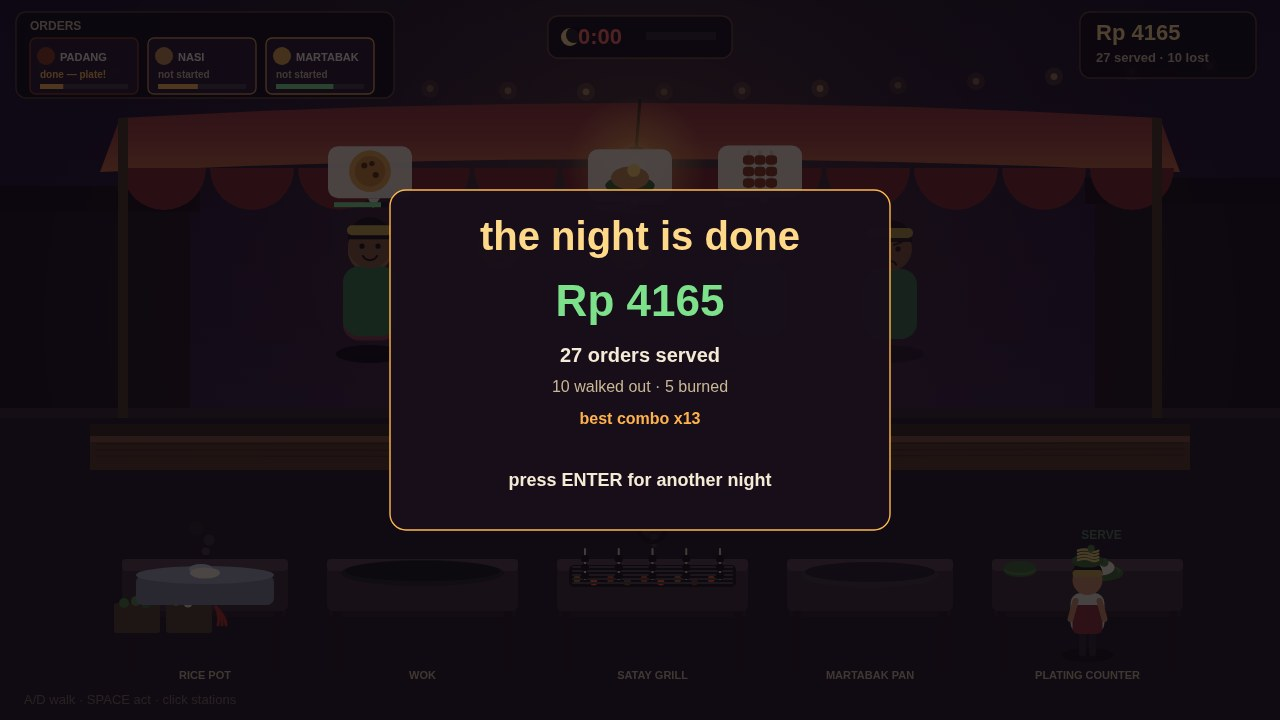
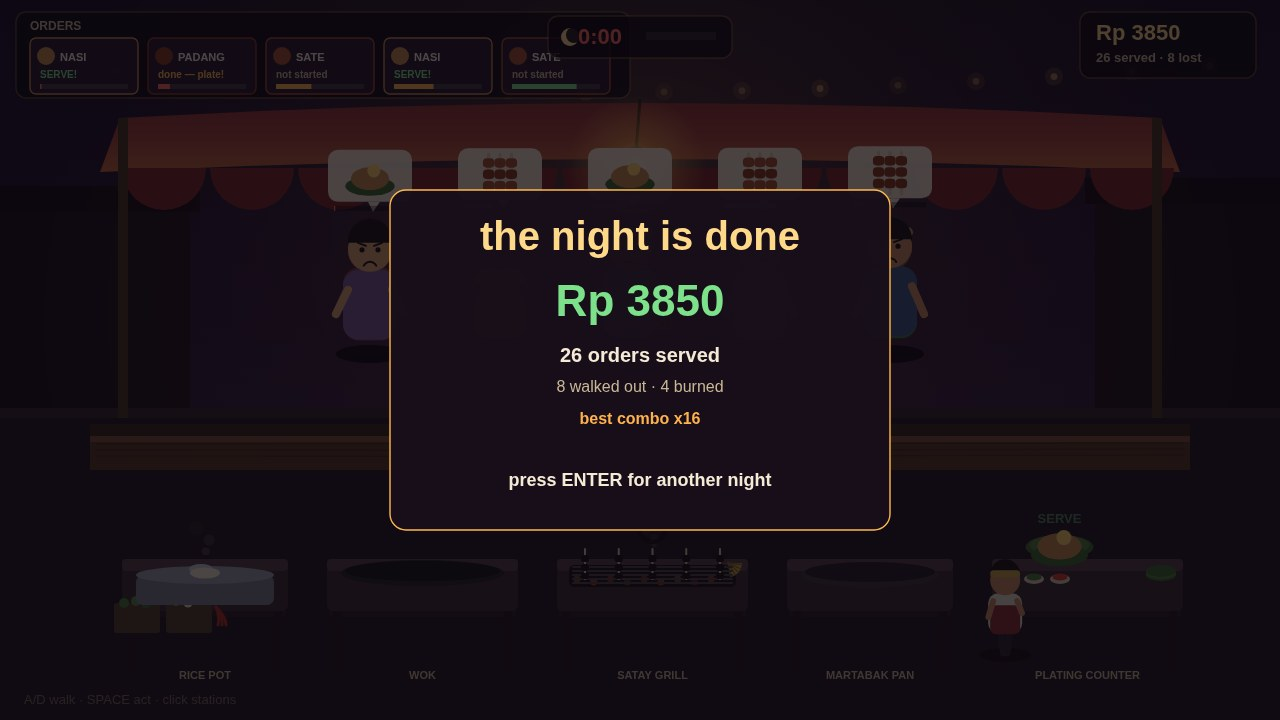
Enrich plating counter, tune balance, stir experiment reverted (chore hurt the fun)

diff --git a/game/src/render.js b/game/src/render.js
@@ -589,43 +589,66 @@ export function createRenderer(canvas) {
   }
 
   function drawPlating(world, x, y, w) {
-    // stacked banana-leaf plates
-    ellipse(x + 20, y + 26, 16, 6, '#3f6a2f');
-    ellipse(x + 20, y + 24, 16, 6, '#4f8240');
-    ellipse(x + 20, y + 22, 16, 6, '#3f6a2f');
+    // the mise en place, always out: little bowls of the garnishes every dish finishes with —
+    // fried egg, greens, sambal — the ingredients on the counter the game is built around
+    const bowls = [
+      { color: GARNISH.egg.color, label: 'egg', dx: 8 },
+      { color: GARNISH.leaf.color, label: 'greens', dx: 34 },
+      { color: GARNISH.chili.color, label: 'sambal', dx: 60 },
+    ];
+    for (const b of bowls) {
+      ellipse(x + b.dx, y + 34, 10, 5, '#d9cdb4');
+      ellipse(x + b.dx, y + 32, 7.5, 3.6, b.color);
+    }
+    // stacked banana-leaf plates at the counter's end
+    ellipse(x + w - 14, y + 30, 15, 6, '#3f6a2f');
+    ellipse(x + w - 14, y + 28, 15, 6, '#4f8240');
+    ellipse(x + w - 14, y + 26, 15, 6, '#3f6a2f');
 
-    // the plate mid-assembly: mound first, garnish after, as plating progresses
+    // the plate mid-assembly, big and central: leaf plate, the mound lowering in, garnish after
+    const midX = x + w / 2 - 30;
     if (world.plating) {
-      const px = x + w / 2 + 14;
-      ellipse(px, y + 28, 22, 8, '#3f6a2f');
-      ellipse(px, y + 26, 19, 6.5, '#4f8240');
       const dish = DISHES[world.plating.dishKey];
-      const appear = Math.min(1, world.plating.progress * 1.6);
+      const prog = world.plating.progress;
+      // leaf plate
+      ellipse(midX, y + 2, 34, 12, '#3f6a2f');
+      ellipse(midX, y, 30, 10, '#4f8240');
+      // the food settling onto the leaf as plating progresses — slides in from above
+      const drop = (1 - Math.min(1, prog * 1.8)) * 26;
       ctx.save();
-      ctx.globalAlpha = appear;
-      ellipse(px, y + 22, 13, 6, dish.color);
+      ctx.globalAlpha = Math.min(1, prog * 2);
+      if (world.plating.dishKey === 'satay' || world.plating.dishKey === 'satayPadang') {
+        drawDishIcon(world.plating.dishKey, midX, y + 2 - drop, 1.7);
+      } else {
+        ellipse(midX, y - 3 - drop, 23, 9.5, dish.color);
+        // grain texture
+        ctx.fillStyle = shade(dish.color, 18);
+        circle(midX - 8, y - 4 - drop, 2.5, ctx.fillStyle);
+        circle(midX + 6, y - 2 - drop, 2.5, ctx.fillStyle);
+        circle(midX + 12, y - 4 - drop, 2.2, ctx.fillStyle);
+      }
+      // the garnish lands last
       const gar = GARNISH[dish.garnish];
-      if (world.plating.progress > 0.45) circle(px + 4, y + 19, 4, gar.color);
+      if (prog > 0.55) circle(midX + 8, y - 6 - drop, 6, gar.color);
       ctx.restore();
-      // progress ring while plating
+      // plating progress ring
       ctx.strokeStyle = COLOR.lampGlow;
-      ctx.lineWidth = 3;
+      ctx.lineWidth = 3.5;
       ctx.beginPath();
-      ctx.arc(px, y - 8, 9, -Math.PI / 2, -Math.PI / 2 + Math.PI * 2 * world.plating.progress);
+      ctx.arc(midX, y - 22, 11, -Math.PI / 2, -Math.PI / 2 + Math.PI * 2 * prog);
       ctx.stroke();
     }
 
-    // finished plates waiting to be served — the thing the judge looks for
+    // finished plates waiting to be served — the plate ready to serve the judge looks for
     world.plated.forEach((p, i) => {
-      const px = x + w / 2 + 14 + i * 40 - (world.plating ? 20 : 0);
-      const py = y + 28 - i * 2;
-      ellipse(px, py, 22, 8, '#3f6a2f');
-      ellipse(px, py - 2, 19, 6.5, '#4f8240');
-      drawDishIcon(p.dishKey, px, py - 8, 1.3);
-      // ready glow + SERVE tag pulsing
+      const px = midX + 2 + i * 2;
+      const py = y + 2 - i * 3;
+      ellipse(px, py, 34, 12, '#3f6a2f');
+      ellipse(px, py - 2, 30, 10, '#4f8240');
+      drawDishIcon(p.dishKey, px, py - 5, 2.2);
       ctx.save();
-      ctx.globalAlpha = 0.55 + 0.3 * Math.sin(world.time * 6 + i);
-      text('SERVE', px, y - 6, 12, COLOR.serve, 'center', '800');
+      ctx.globalAlpha = 0.6 + 0.3 * Math.sin(world.time * 6 + i);
+      text('SERVE', px, y - 22, 13, COLOR.serve, 'center', '800');
       ctx.restore();
     });
   }

diff --git a/game/src/shots.js b/game/src/shots.js
@@ -1,12 +1,14 @@
 // The screenshot scenes behind ?shot=cover|rush|plate|end. Each runs the real simulation
-// forward — the autopilot genuinely takes orders, fires the wok, plates and serves — so
-// every frame is a true moment of the game, and the same seed always paints the same night.
+// forward — the autopilot genuinely takes orders, fires the wok, grill and pan in parallel,
+// plates and serves — so every frame is a true moment of the game, reproducible from its seed.
 //
-// The timings below were chosen by scanning the simulation at fine granularity for the
-// richest honest frame of each kind: the cover catches three fires lit with a full queue
-// and a dish done and waiting; rush is peak chaos late in the night; plate is the moment a
-// dish is mid-assembly at the plating counter; end is the tally. Because the seed is fixed
-// and the sim deterministic, these frames are exactly reproducible.
+// The seeds and times below were chosen by scanning many seeded nights for the richest honest
+// frame of each kind:
+//   cover — three fires lit at once (wok, grill, pan), a full queue of five, orders on the
+//           board in every state from "not started" to "SERVE!", the clock partway down.
+//   rush  — the late-night peak: pressure highest, tickets deep, the cook mid-service.
+//   plate — a dish mid-assembly at the plating counter, garnish going on, a fire behind.
+//   end   — the night-end tally over a quieting stall.
 
 import { STEP } from './config.js';
 import { advance } from './world.js';
@@ -21,9 +23,9 @@ function playForward(world, seconds) {
 }
 
 export function stageShot(world, which) {
-  if (which === 'cover') playForward(world, 149.8);
-  else if (which === 'rush') playForward(world, 149.8);
-  else if (which === 'plate') playForward(world, 148.2);
+  if (which === 'cover') playForward(world, 119);
+  else if (which === 'rush') playForward(world, 163.7);
+  else if (which === 'plate') playForward(world, 120.1);
   else if (which === 'end') playForward(world, 245);
   return world;
 }

diff --git a/game/src/config.js b/game/src/config.js
@@ -47,8 +47,8 @@ export const COLOR = {
 export const NIGHT = {
   seconds: 240,
   firstOrderAt: 2,
-  spawnStart: 5.0,     // seconds between orders at the start of the night
-  spawnEnd: 2.8,       // and at peak rush — faster than one cook can plate, so choosing
+  spawnStart: 4.2,     // seconds between orders at the start of the night
+  spawnEnd: 2.2,       // and at peak rush — faster than one cook can plate, so choosing
                        // what to cook next is the game
   patienceStart: 50,   // seconds a customer waits, early
   patienceEnd: 30,     // late in the night
@@ -57,11 +57,13 @@ export const NIGHT = {
 
 // Cooking timings, in seconds, for each heating stage.
 export const COOK = {
-  wokTime: 6.0,        // frying nasi goreng / kwetiau in the wok
-  grillTime: 7.0,      // satay skewers over charcoal
-  batterTime: 7.5,     // martabak setting in the pan
-  burnGrace: 4.5,      // extra seconds after done before the food burns
-  plateTime: 0.9,      // plating a finished dish
+  wokTime: 7.5,        // frying nasi goreng / kwetiau in the wok
+  grillTime: 8.5,      // satay skewers over charcoal
+  batterTime: 9.0,     // martabak setting in the pan
+  burnGrace: 6.5,      // extra seconds after done before the food burns
+  plateTime: 3.2,      // plating a finished dish — laying the rice, the garnish, the egg.
+                       // slow enough that plating is a real step you plan around, and a
+                       // plate mid-assembly is a common sight across the counter
 };
 
 // Scoring.

diff --git a/game/src/world.js b/game/src/world.js
@@ -264,7 +264,7 @@ export function commandAction(world) {
   if (!cook.carrying) {
     const dishKey = nextDishForStation(world, key);
     if (dishKey) {
-      st.item = { dishKey, heat: 0, done: false, burn: 0, burned: false };
+      st.item = { dishKey, heat: 0, done: false, burn: 0, burned: false, stir: 1, sinceStir: 0 };
       cook.busy = 0.45;
       cook.action = 'prep';
       world.events.push({ type: EVENT_START, dishKey, station: key, t: world.time });

diff --git a/game/src/main.js b/game/src/main.js
@@ -14,7 +14,7 @@ import { stageShot } from './shots.js';
 const params = new URLSearchParams(window.location.search);
 const shot = params.get('shot');
 const seedParam = Number.parseInt(params.get('seed') ?? '', 10);
-const seed = Number.isInteger(seedParam) ? seedParam : 24;
+const seed = Number.isInteger(seedParam) ? seedParam : 10;
 
 const canvas = document.getElementById('game');
 const status = document.getElementById('status');
